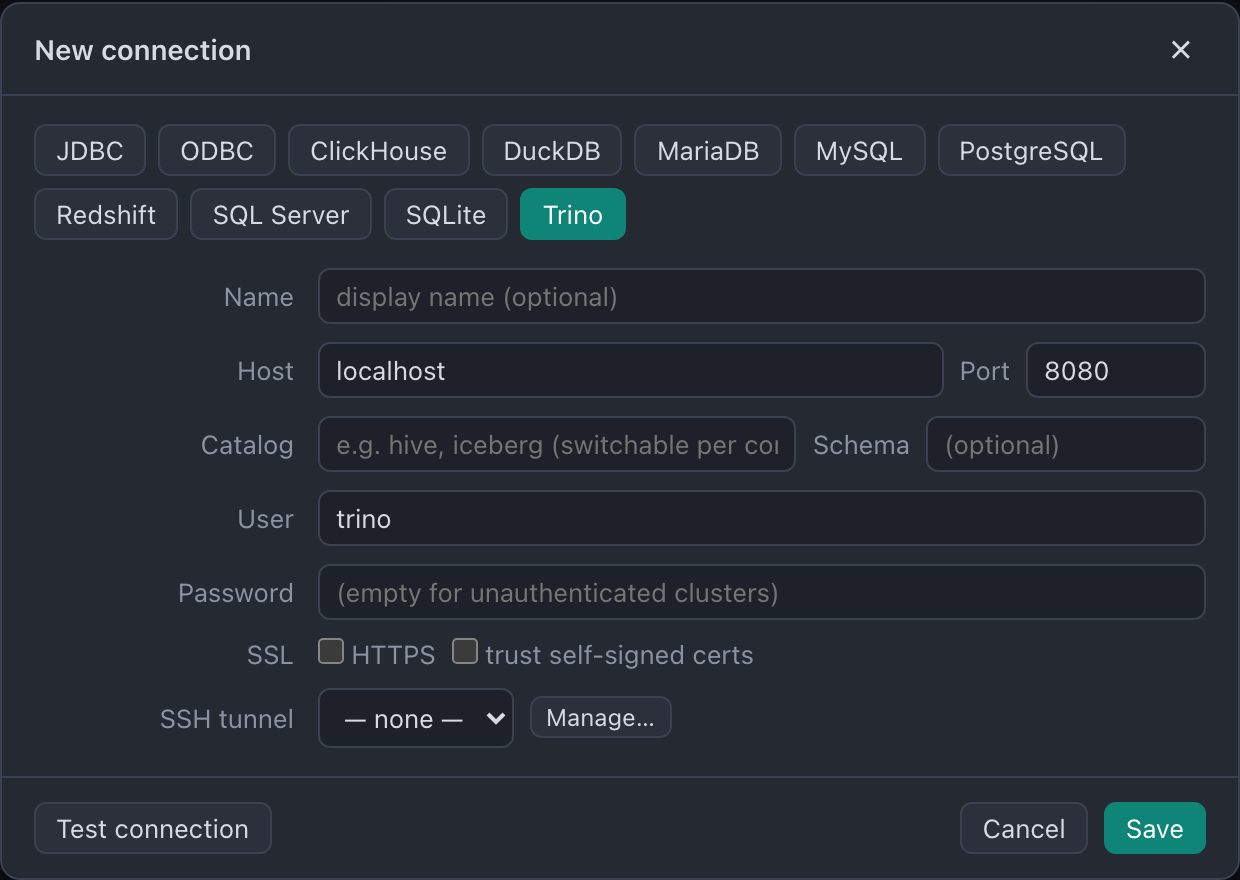
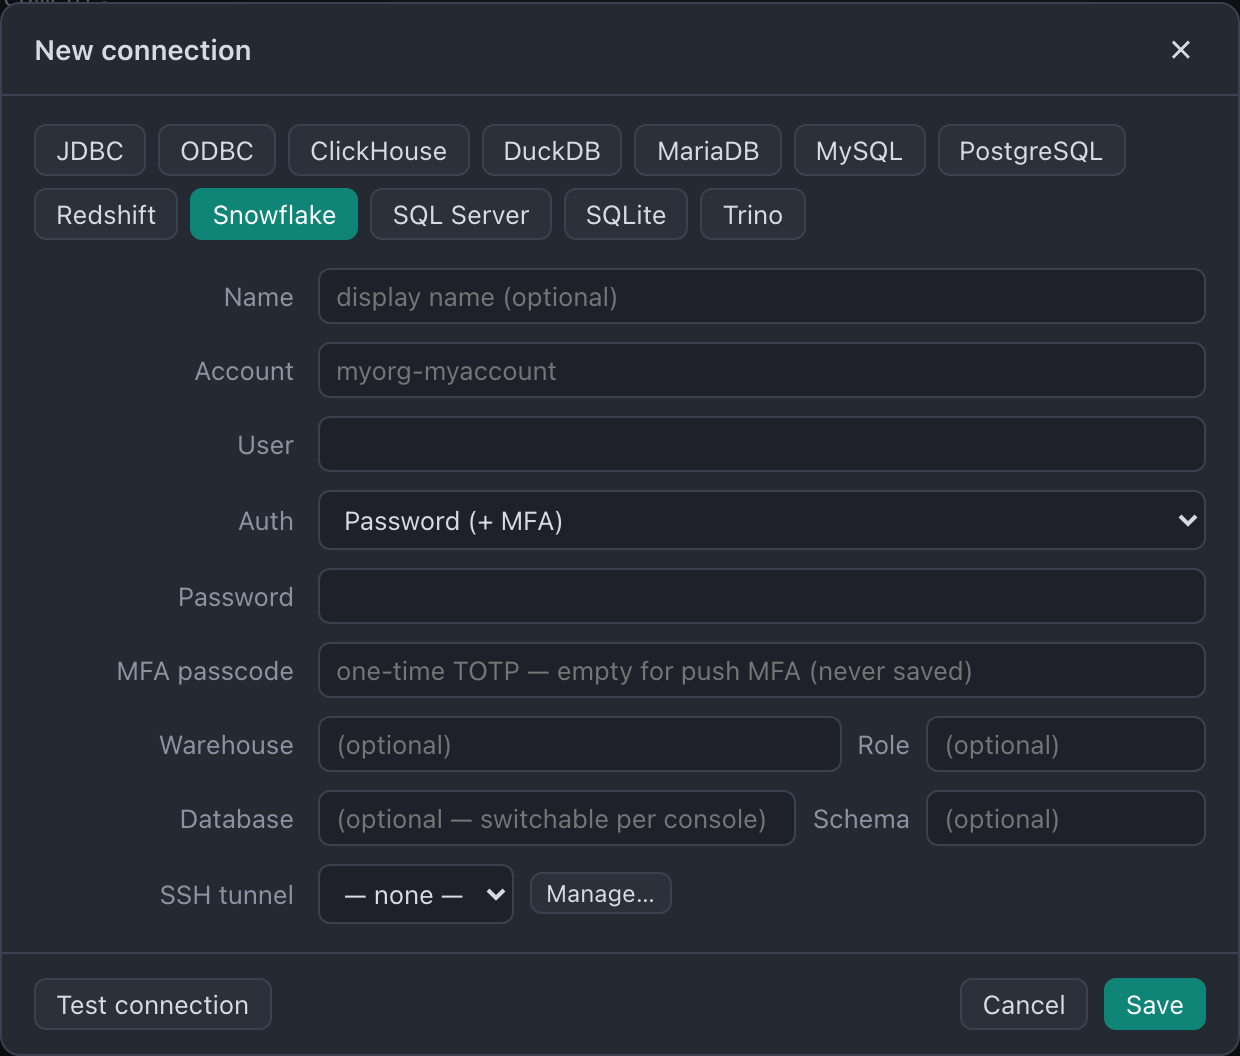
docs: README refresh for native Snowflake
Snowflake joins the native-driver row (auth methods called out), the
JDBC example list drops it, server-side cancel now lists all three
engines, and the connection screenshot shows the Snowflake form.

diff --git a/README.md b/README.md
@@ -16,7 +16,8 @@ macOS, Windows, Linux.
   words, find/replace with regex and case toggles, and one-keystroke reformatting
   (`⌘⌥L`, configurable style).
 - **Results built for volume** — virtualized grid over a backend row store, paged
-  fetches, automatic row limits, cancellable queries (server-side on PostgreSQL).
+  fetches, automatic row limits, cancellable queries (server-side on PostgreSQL,
+  Trino and Snowflake — a cancelled warehouse query stops billing).
 - **Schema tree that's instant** — catalogs cache to disk and render immediately on
   launch, then refresh in the background; functions, procedures, sequences, triggers
   and more group under schema → kind, collapsed until you ask.
@@ -32,12 +33,15 @@ macOS, Windows, Linux.
 | --- | --- | --- |
 | **JDBC** | JNI bridge, JVM discovered at runtime — anything with a JDBC driver | Java 11+ (e.g. [Temurin](https://adoptium.net)) |
 | **ODBC** | thin binding loaded at runtime — anything with an ODBC driver | Windows: built in · macOS: `brew install unixodbc` · Debian: `apt install unixodbc` |
-| Native | SQLite · DuckDB · PostgreSQL · Amazon Redshift · MySQL · MariaDB · SQL Server · ClickHouse · Trino — pure-Rust drivers, zero setup | none |
+| Native | SQLite · DuckDB · PostgreSQL · Amazon Redshift · MySQL · MariaDB · SQL Server · ClickHouse · Trino · Snowflake — pure-Rust drivers, zero setup | none |
+
+The native Snowflake driver speaks the REST API directly (no JVM) and covers all four
+auth methods: password + MFA, key-pair (JWT), external-browser SSO, and OAuth tokens.
 
 The driver manager downloads the latest official JDBC driver for **27 engines** from
-Maven Central with one click — Snowflake, Databricks, Oracle, Db2, Teradata, Vertica,
-Exasol, SAP HANA, Athena, Hive/Spark, Presto, Informix, Firebird, and more — and the
-JDBC connection form prefills any of them from a preset dropdown.
+Maven Central with one click — Databricks, Oracle, Db2, Teradata, Vertica, Exasol,
+SAP HANA, Athena, Hive/Spark, Presto, Informix, Firebird, and more — and the JDBC
+connection form prefills any of them from a preset dropdown.
 
 <p>
   <img src="docs/screenshot-connection.png" width="49%" alt="New connection dialog" />
@@ -68,7 +72,7 @@ src/                    React UI (tabs, editor, grid, tree, wizards)
   store.ts              zustand app state · api.ts — typed invoke wrappers
   components/           SqlEditor (CodeMirror 6), ResultsGrid (virtualized), …
 src-tauri/src/
-  drivers/              DbConnection trait + sqlite/duckdb/postgres/mysql/mssql/clickhouse/trino/odbc/jdbc
+  drivers/              DbConnection trait + sqlite/duckdb/postgres/mysql/mssql/clickhouse/trino/snowflake/odbc/jdbc
   state.rs              sessions (one per profile+tab), result store, cancel flags
   catalog.rs, ddl.rs    introspection model + DDL generation
   objects.rs            functions/procedures/sequences/triggers per dialect
